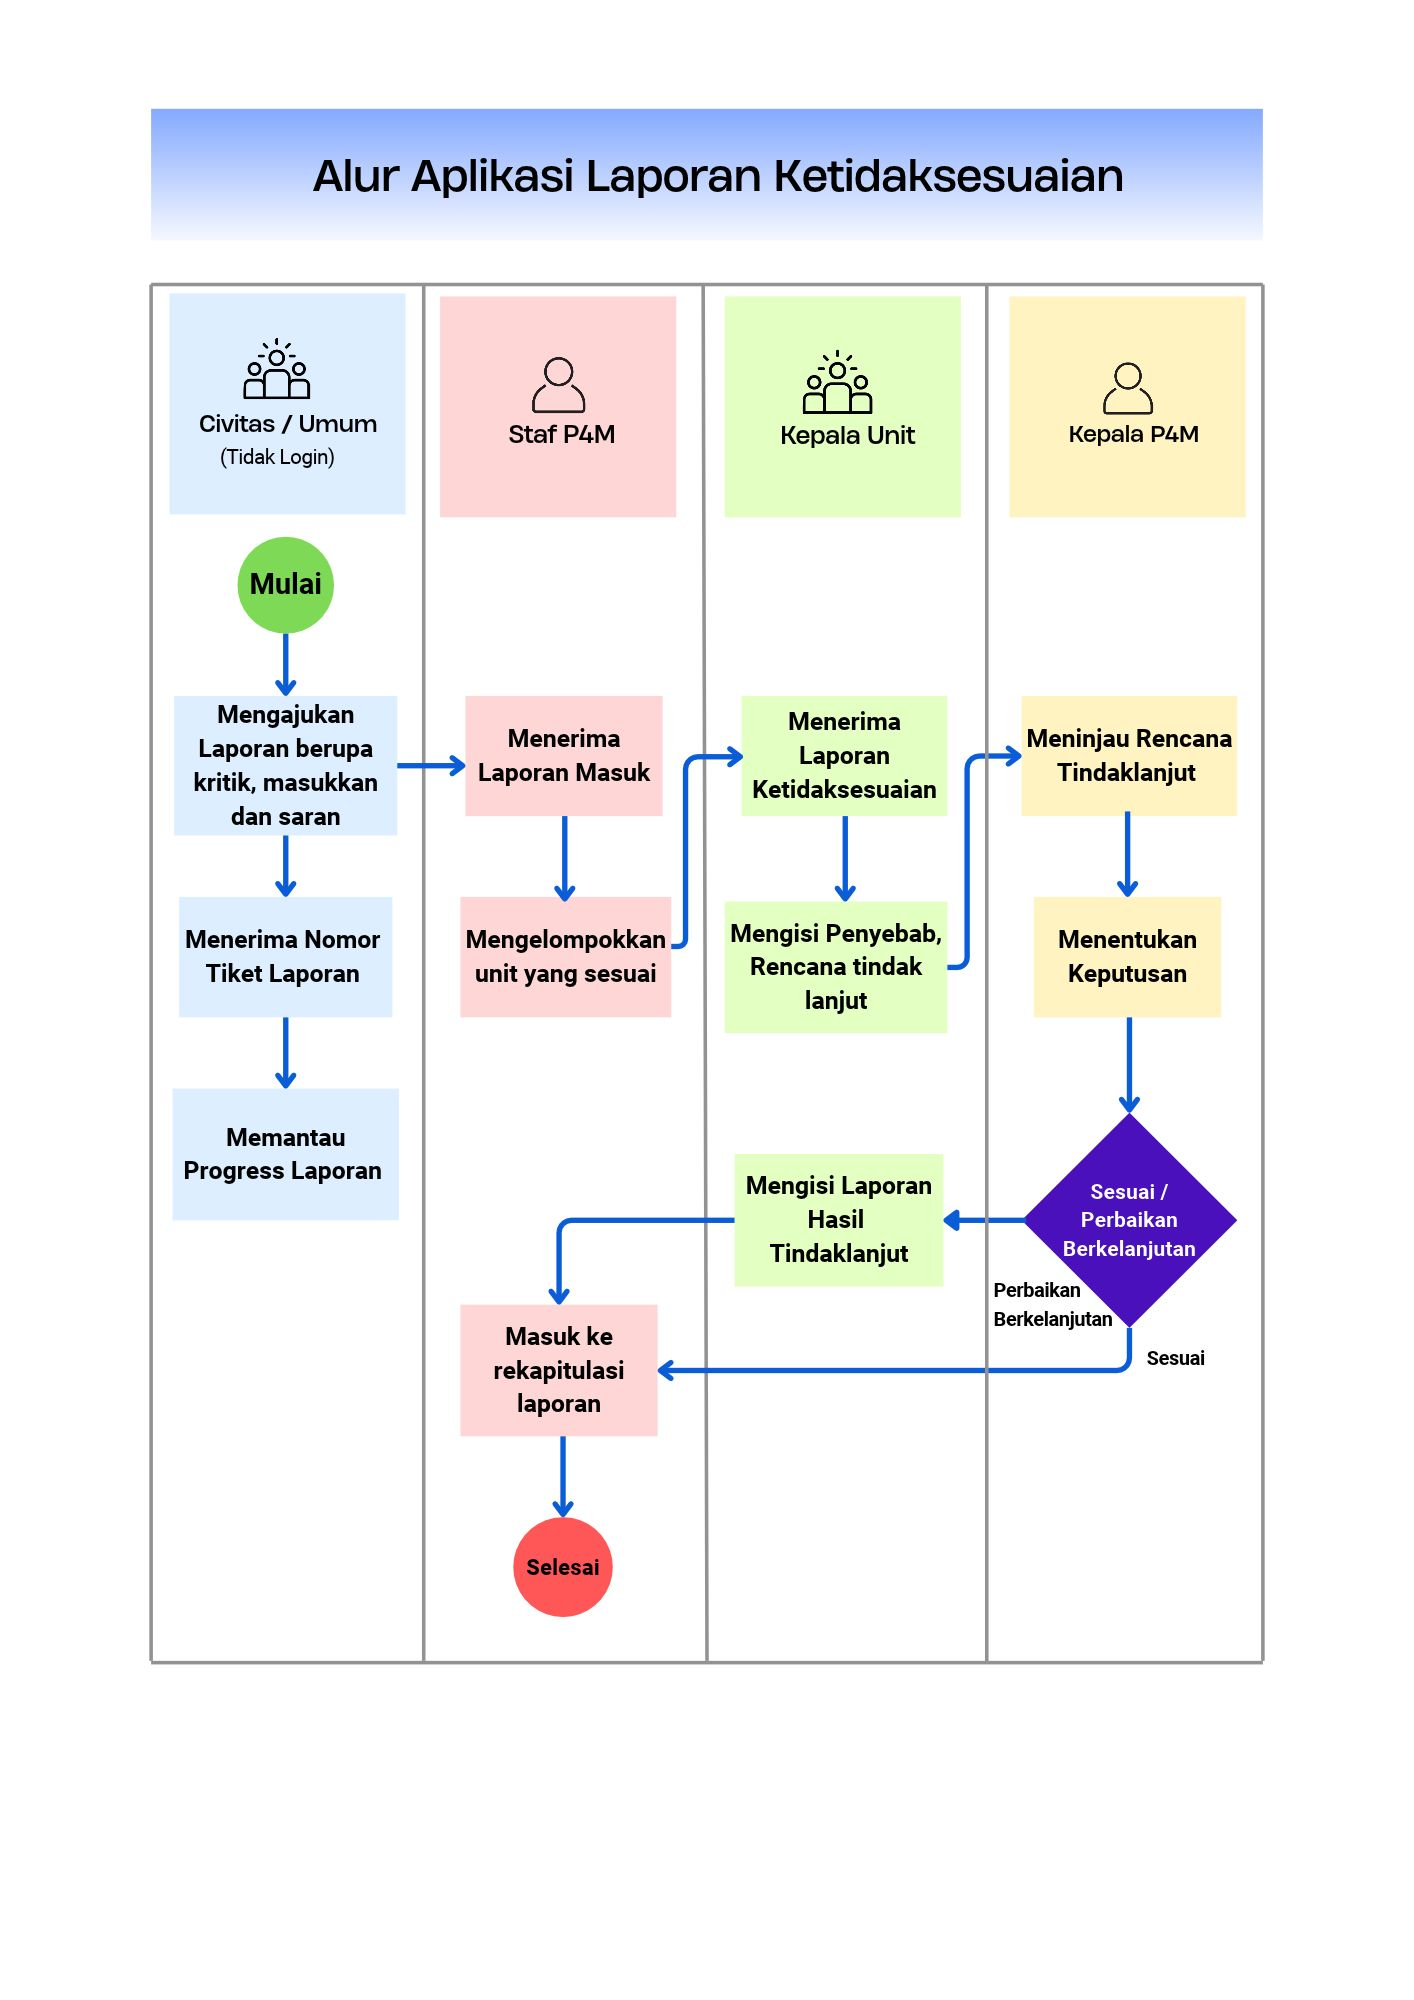
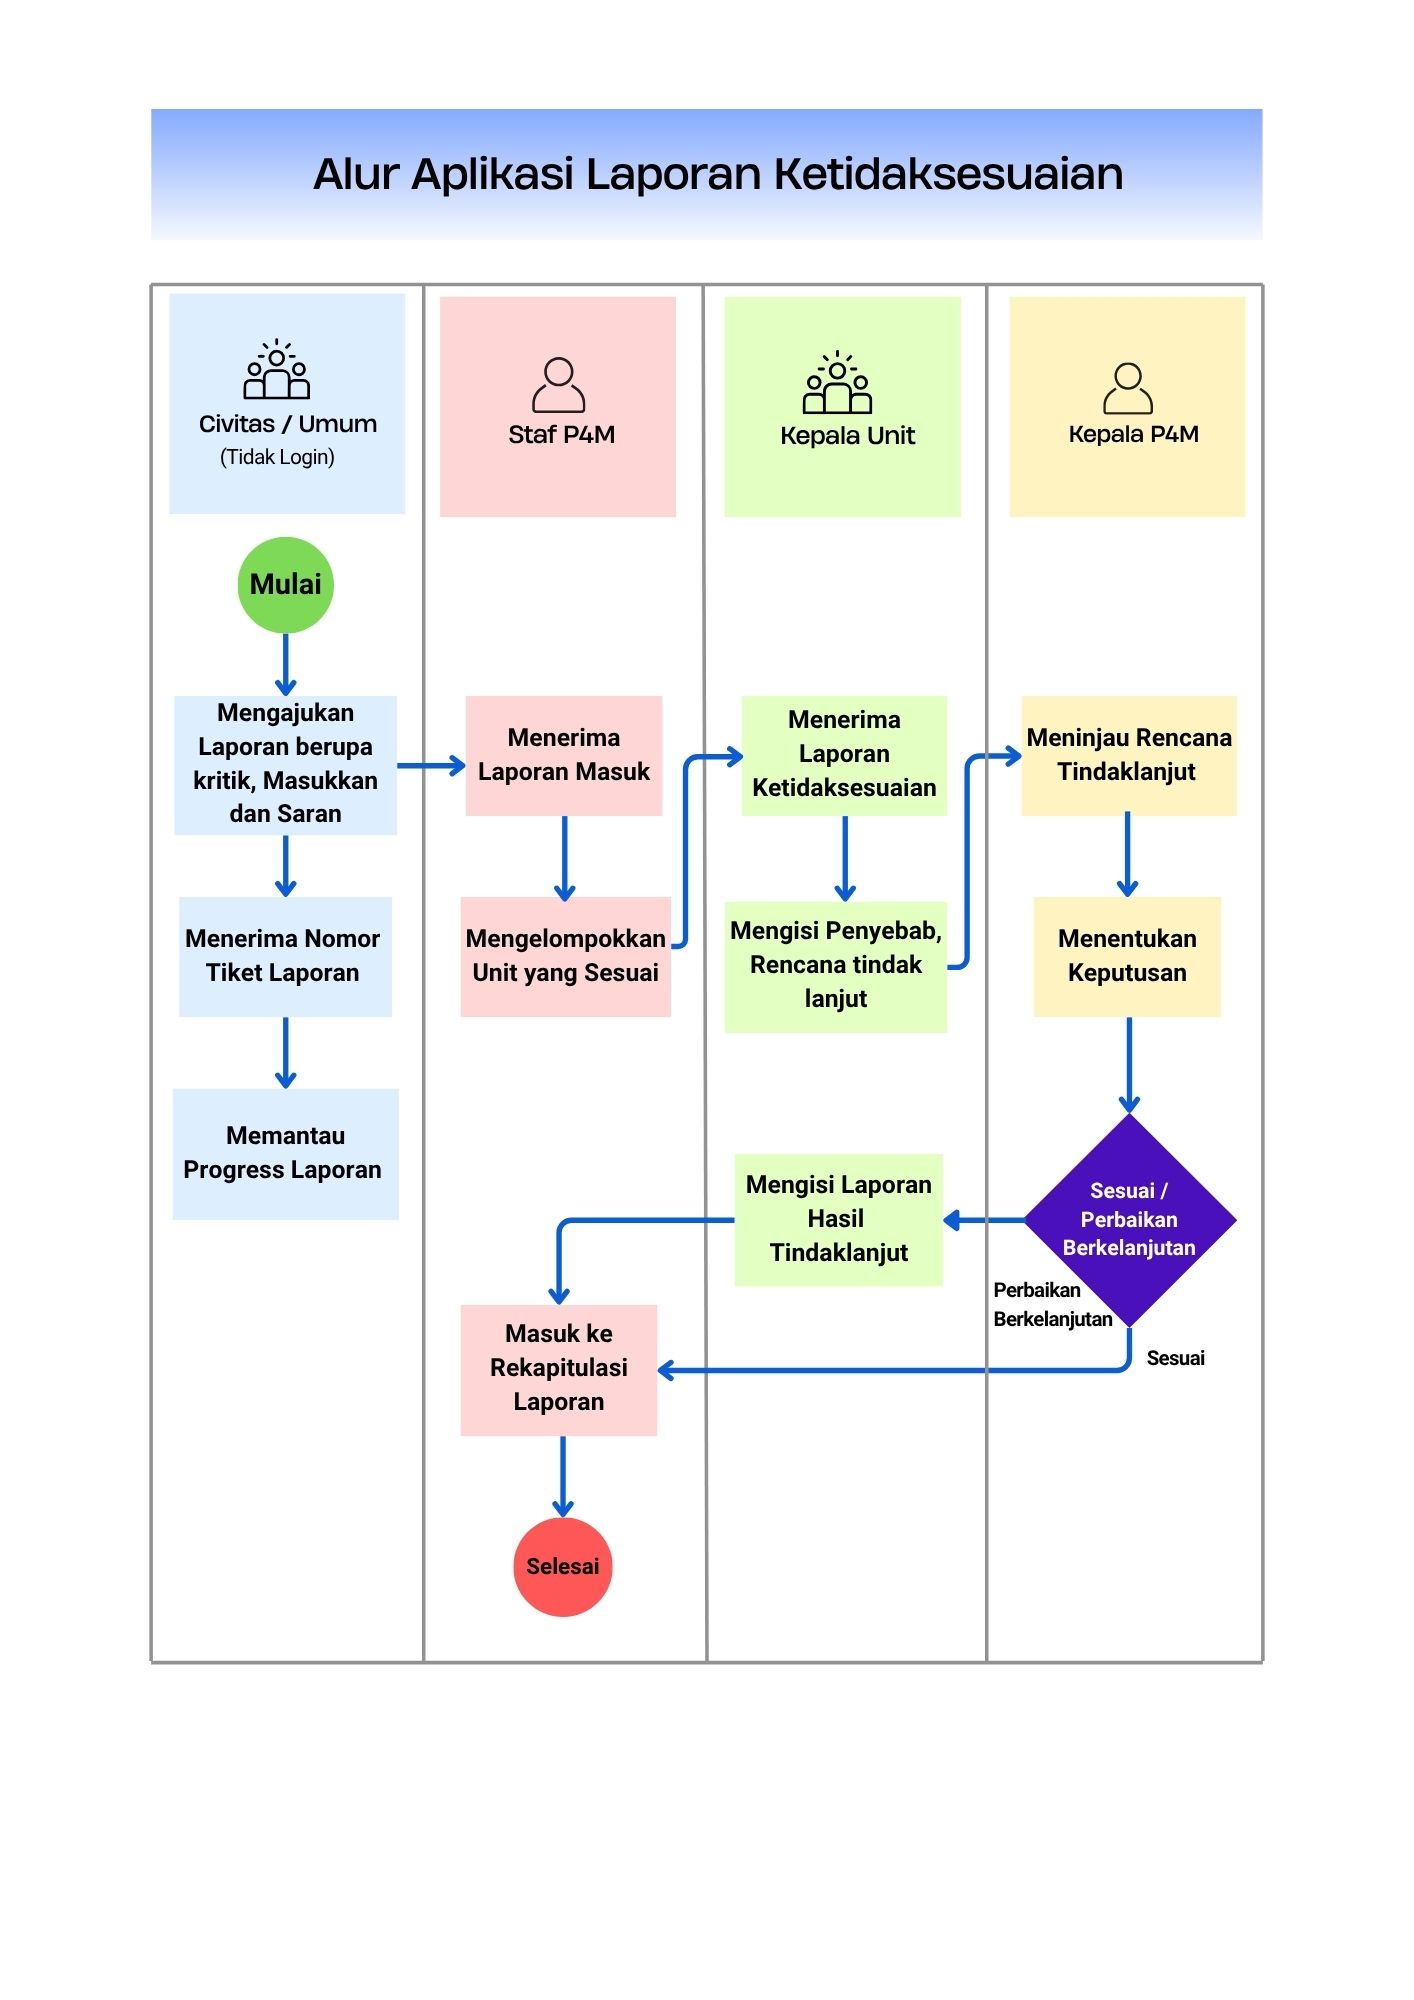
revisi keliruan

diff --git a/frontend/app/(dashboard)/ka-p4m/kepala-unit/ketidaksesuaian-masuk/page.tsx b/frontend/app/(dashboard)/ka-p4m/kepala-unit/ketidaksesuaian-masuk/page.tsx
@@ -75,7 +75,7 @@ export default function KaP4MKepalaUnitLaporanMasukPage() {
           📋 Laporan Baru
         </button>
 
-        {/* 2. Tambahkan Badge Angka di Tombol Tab "Keputusan Staf" */}
+        {/* 2. Tambahkan Badge Angka di Tombol Tab "Status Tindakan Staf P4M" */}
         <button
           onClick={() => setActiveTab('keputusan-staf')}
           className={`px-6 py-3 text-sm font-semibold transition-all border-b-2 flex items-center gap-2 ${
@@ -84,7 +84,7 @@ export default function KaP4MKepalaUnitLaporanMasukPage() {
               : 'border-transparent text-gray-500 hover:text-gray-700 dark:text-gray-400 dark:hover:text-gray-200'
           }`}
         >
-          <span>📋 Keputusan Staf</span>
+          <span>📋 Status Tindakan Staf P4M</span>
           {keputusanStafCount > 0 && (
             <span className="flex items-center justify-center min-w-[20px] h-5 px-1.5 text-[11px] font-bold text-white bg-red-500 rounded-full">
               {keputusanStafCount}

diff --git a/frontend/app/(dashboard)/kepala-unit/ketidaksesuaian-masuk/page.tsx b/frontend/app/(dashboard)/kepala-unit/ketidaksesuaian-masuk/page.tsx
@@ -74,7 +74,7 @@ export default function KetidaksesuaianMasukPage() {
               : 'border-transparent text-gray-500 hover:text-gray-700 dark:text-gray-400 dark:hover:text-gray-200'
           }`}
         >
-          <span>📋 Status tindakan Staf P4M</span>
+          <span>📋 Status Tindakan Staf P4M</span>
           {keputusanStafCount > 0 && (
             <span className="flex items-center justify-center min-w-5 h-5 px-1.5 text-[11px] font-bold text-white bg-red-500 rounded-full">
               {keputusanStafCount}
